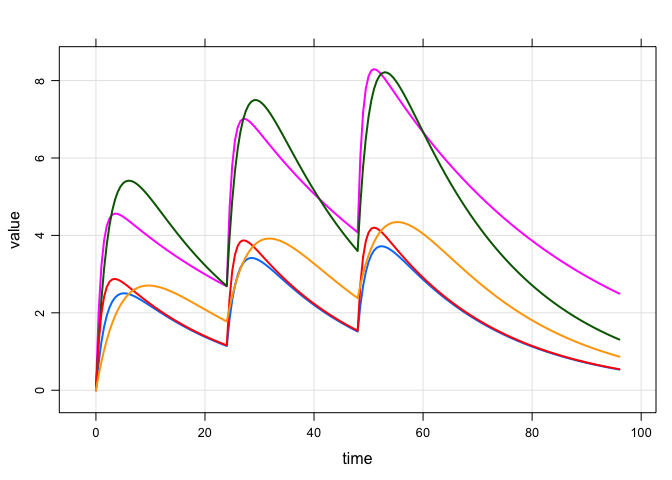
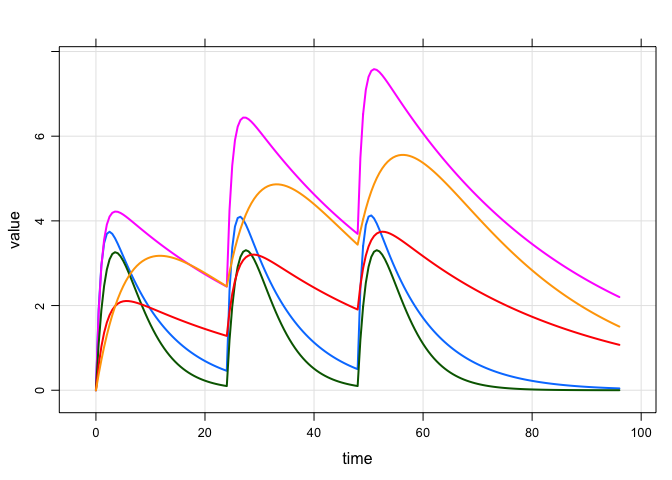
re-build bootstrap example

diff --git a/population/bootstrap.md b/population/bootstrap.md
@@ -86,7 +86,7 @@ Test simulation
 The basic simulation we will be doing is
 
 ``` r
-set.seed(98765)
+set.seed(987652)
 
 mod %>%
   data_set(data) %>%
